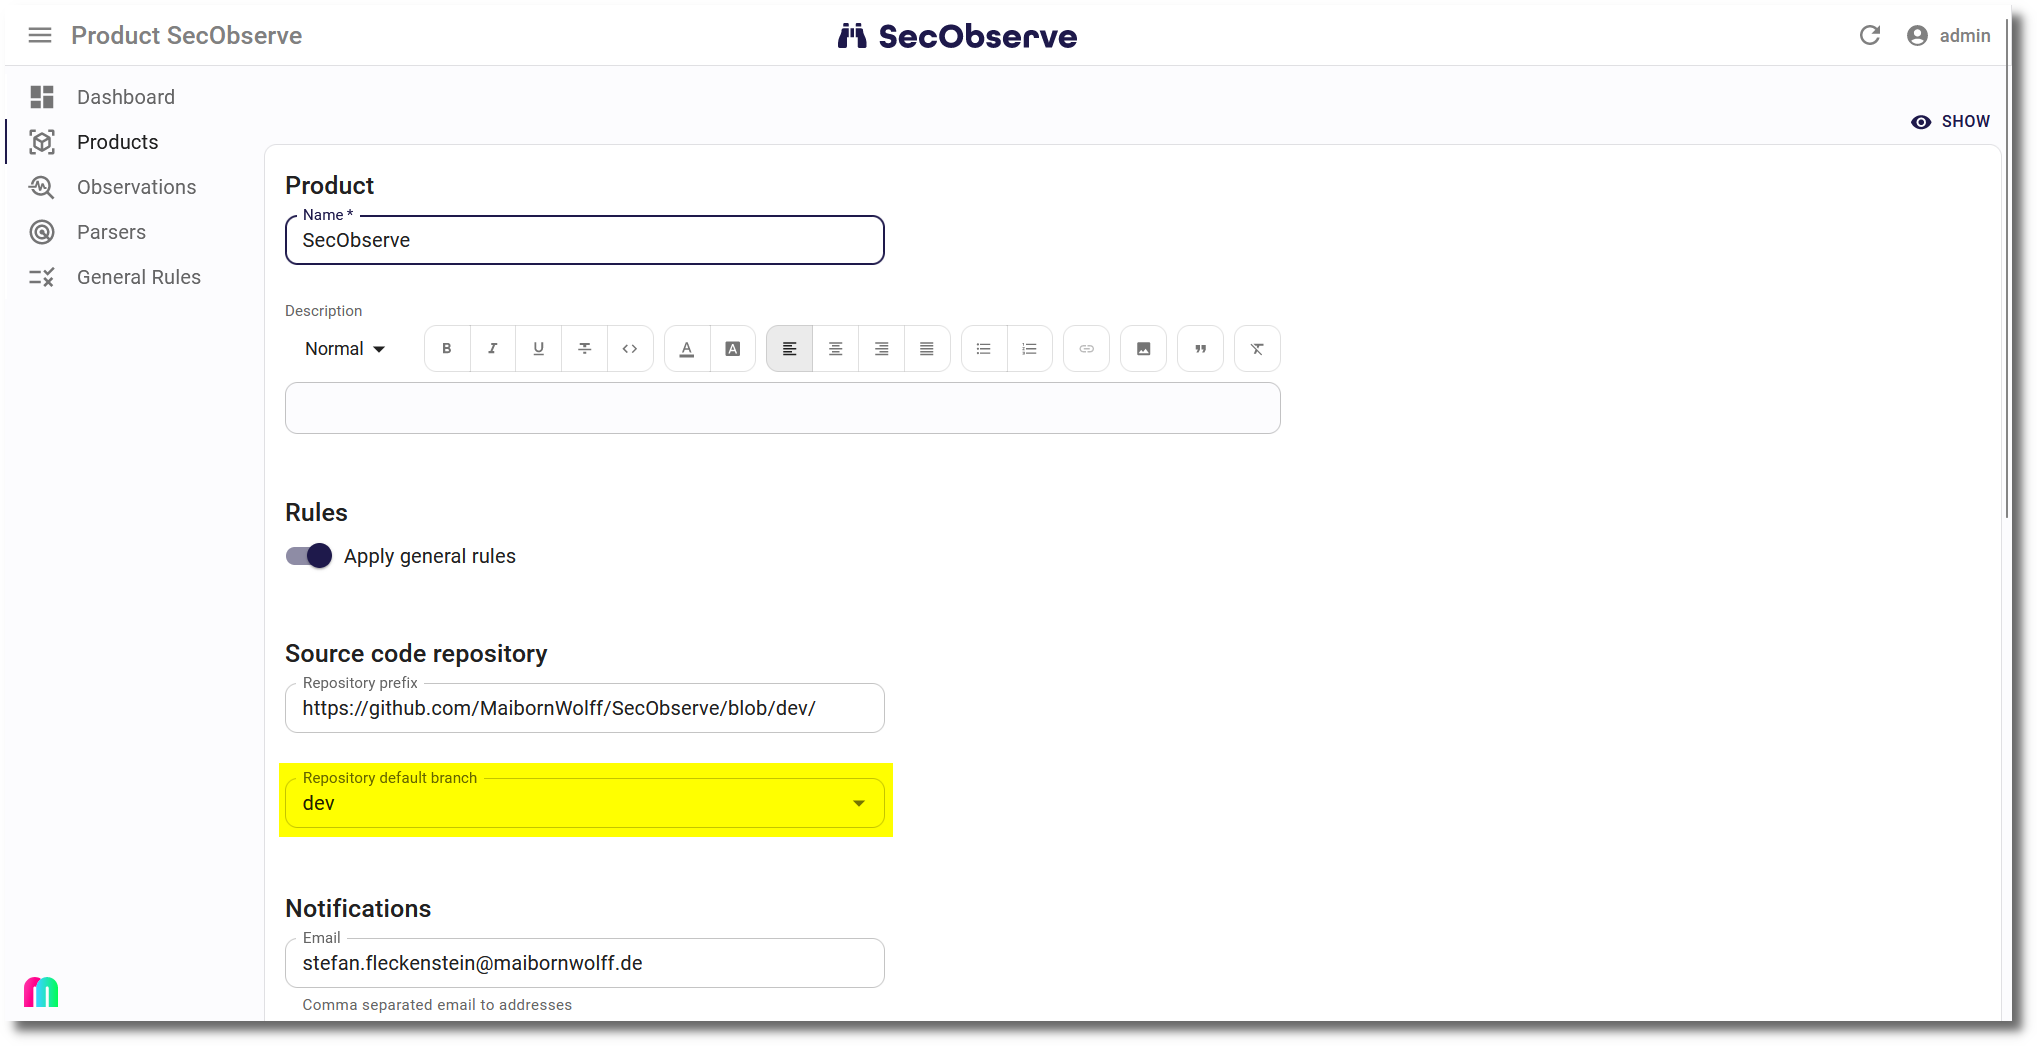
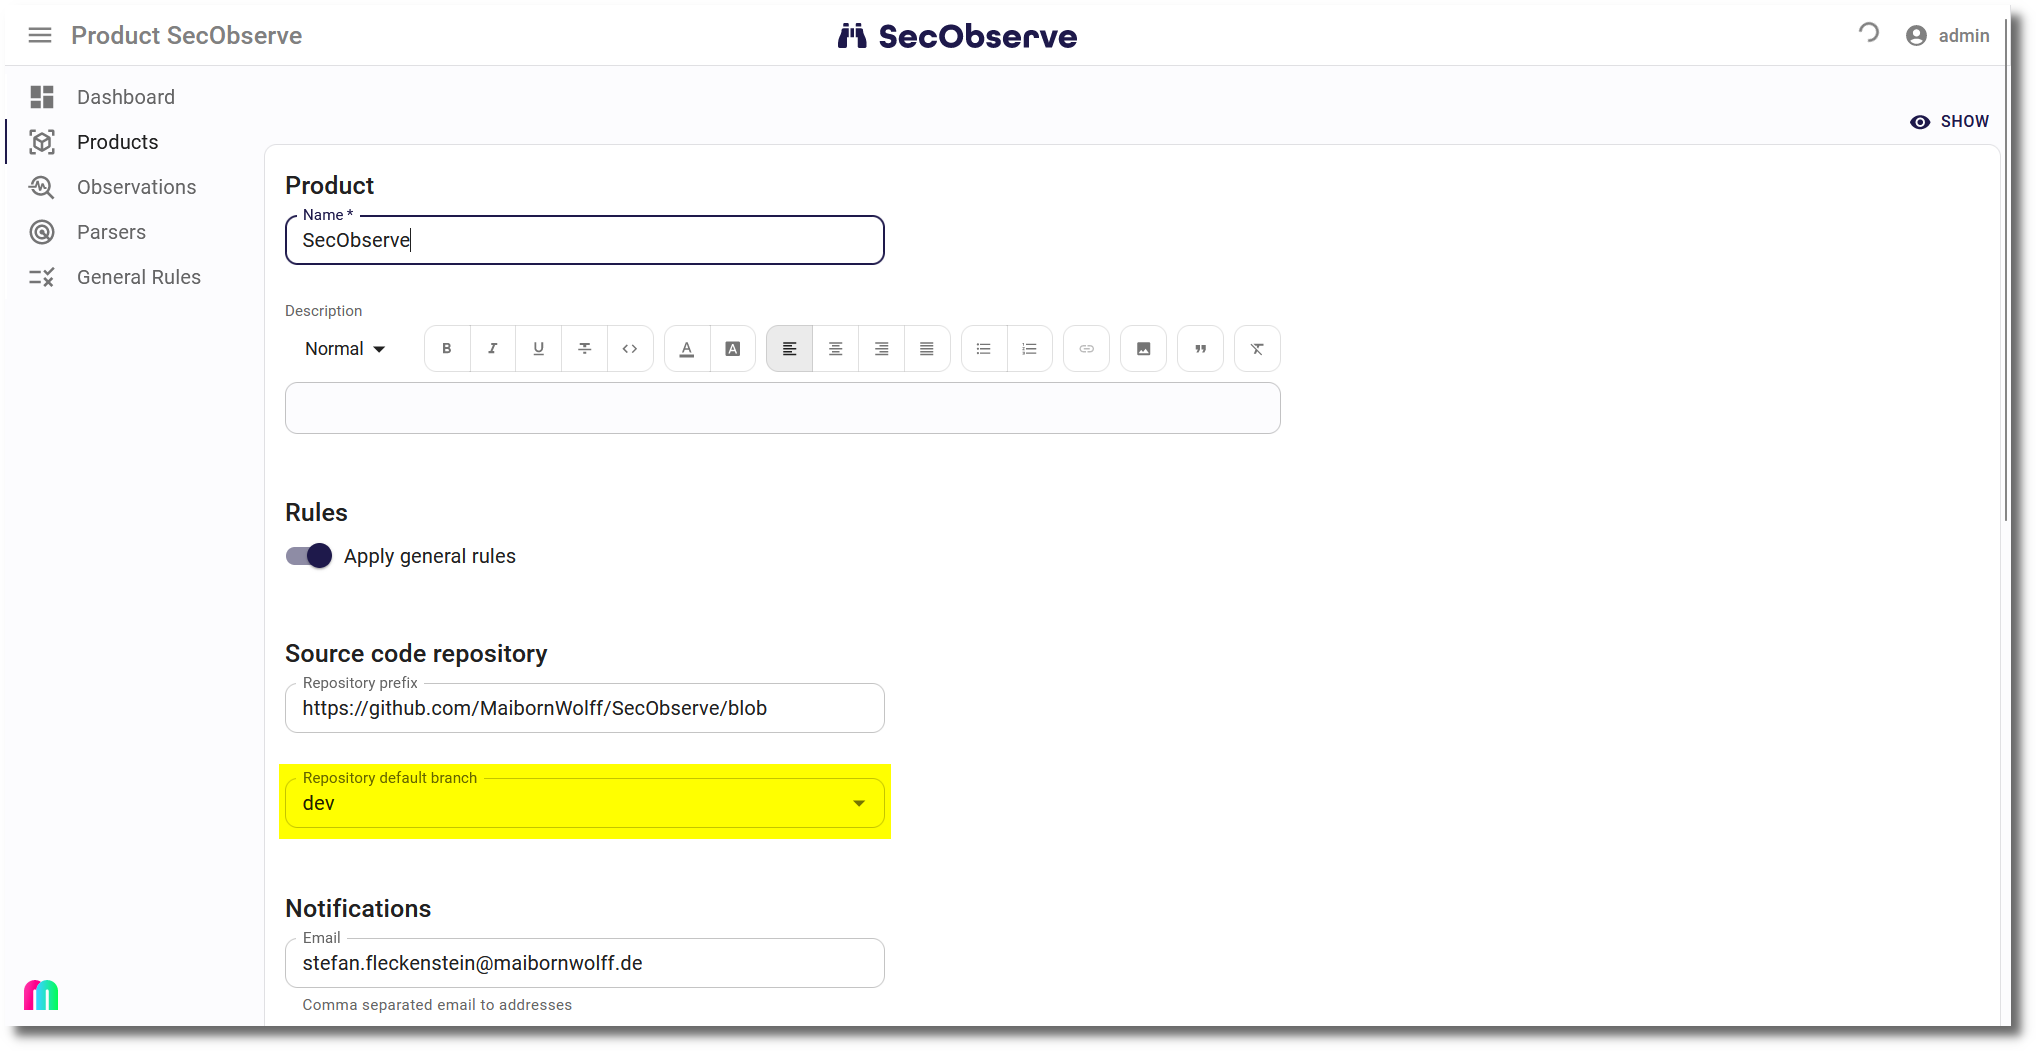
chore: replace screenshots

diff --git a/docs/integrations/source_code_repositories.md b/docs/integrations/source_code_repositories.md
@@ -4,7 +4,11 @@ Observations can have a source file plus start and end lines as an origin. Durin
 
 ## Setting the repository in a product
 
-When creating or editing a product, the field `Repository prefix` can be set. This needs to be the prefix of the URL to show a file in the repository. If the observations of the product have the branch set, then for GitLab it is something like `https://gitlab.maibornwolff.de/secobserve/secobserve/-/blob`, for GitHub it looks like `https://github.com/MaibornWolff/codecharta/blob`. If the observations don't have the branch set, then a branch need to be part of the repository prefix.
+When creating or editing a product, the field `Repository prefix` can be set. This needs to be the prefix of the URL to show a file in the repository. 
+
+* If the observations of the product have the branch set, then for GitLab it is something like `https://gitlab.maibornwolff.de/secobserve/secobserve/-/blob`, for GitHub it looks like `https://github.com/MaibornWolff/codecharta/blob`. 
+
+* If the observations don't have the branch set, then a branch need to be at the end of the repository prefix, e.g. `https://gitlab.maibornwolff.de/secobserve/secobserve/-/blob/dev` or `https://github.com/MaibornWolff/codecharta/blob/dev`.
 
 ![Repository integration](../assets/images/screenshot_repository_1.png)
 
